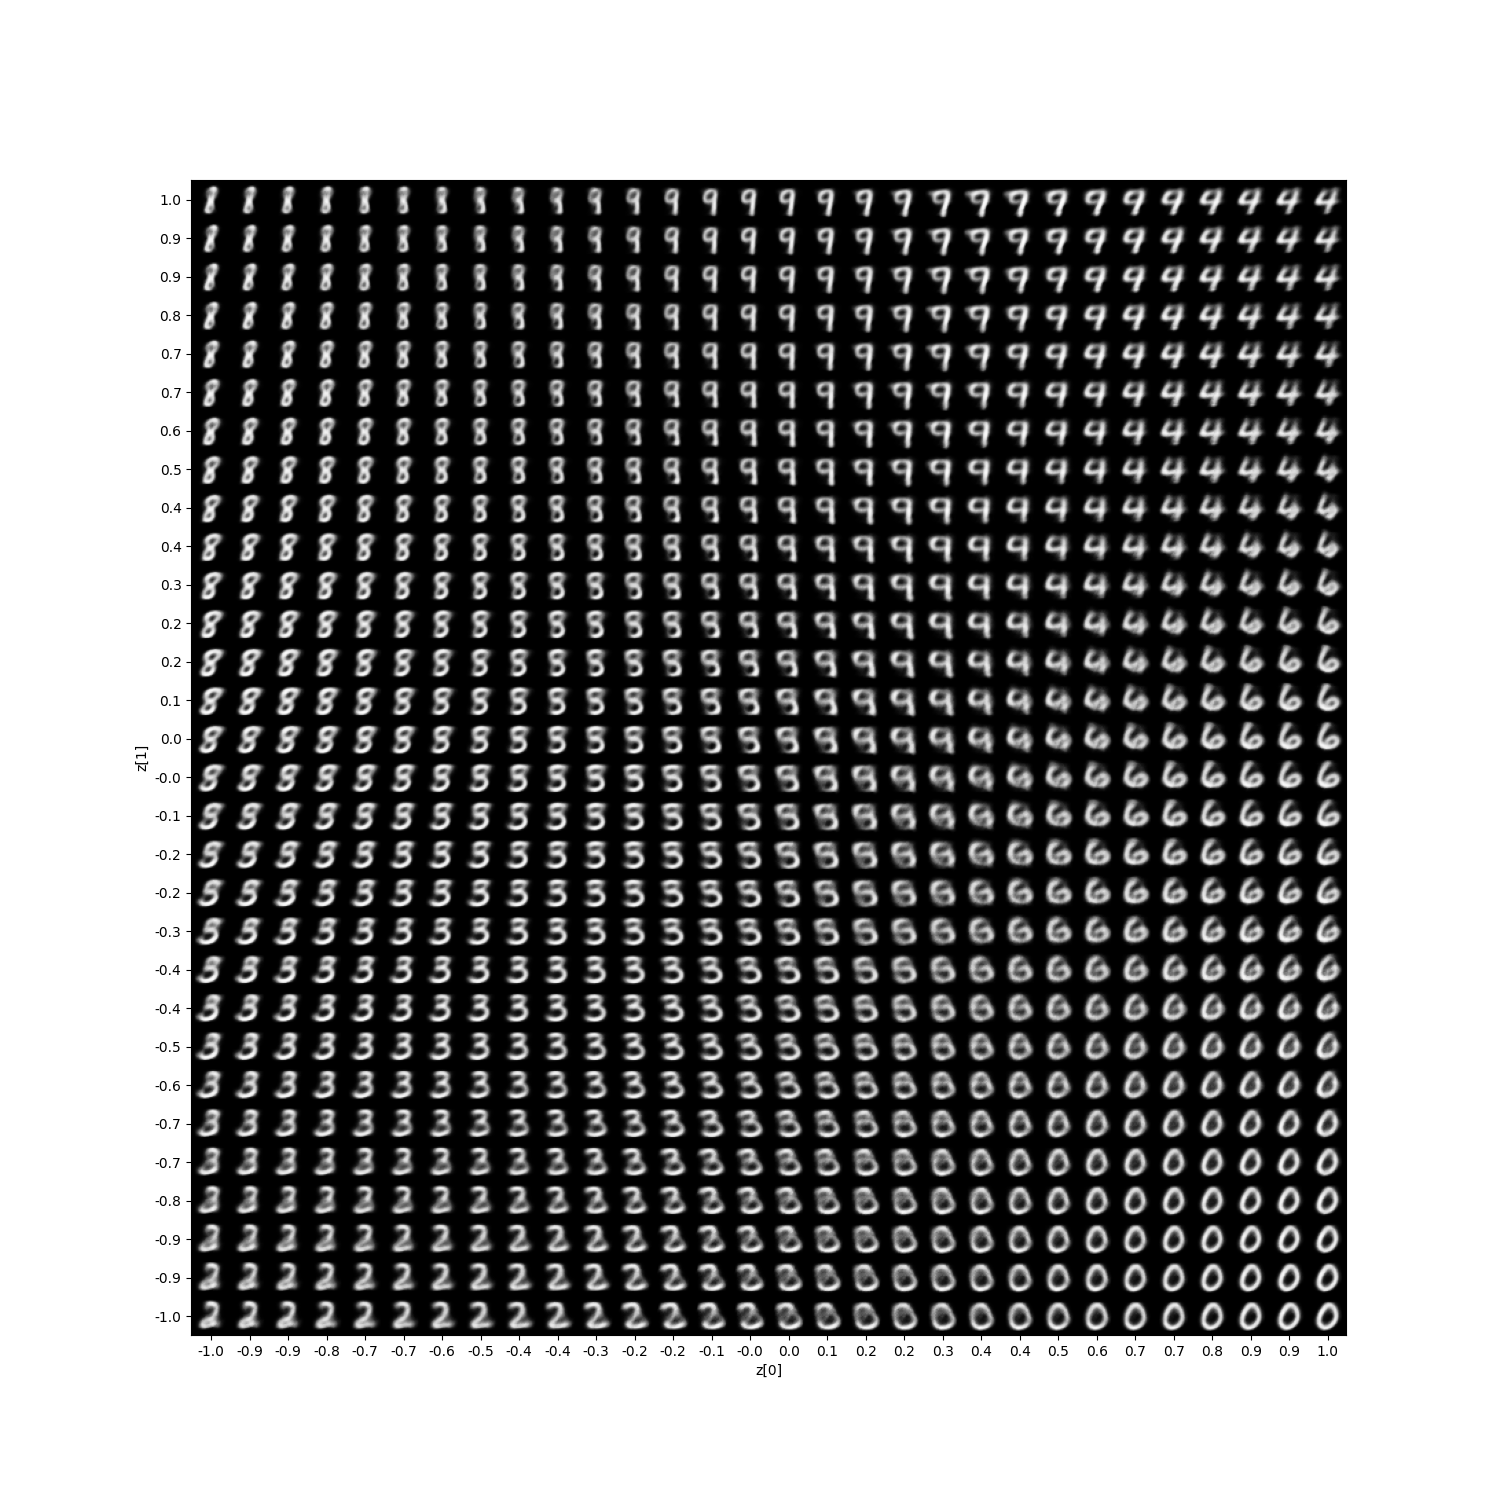
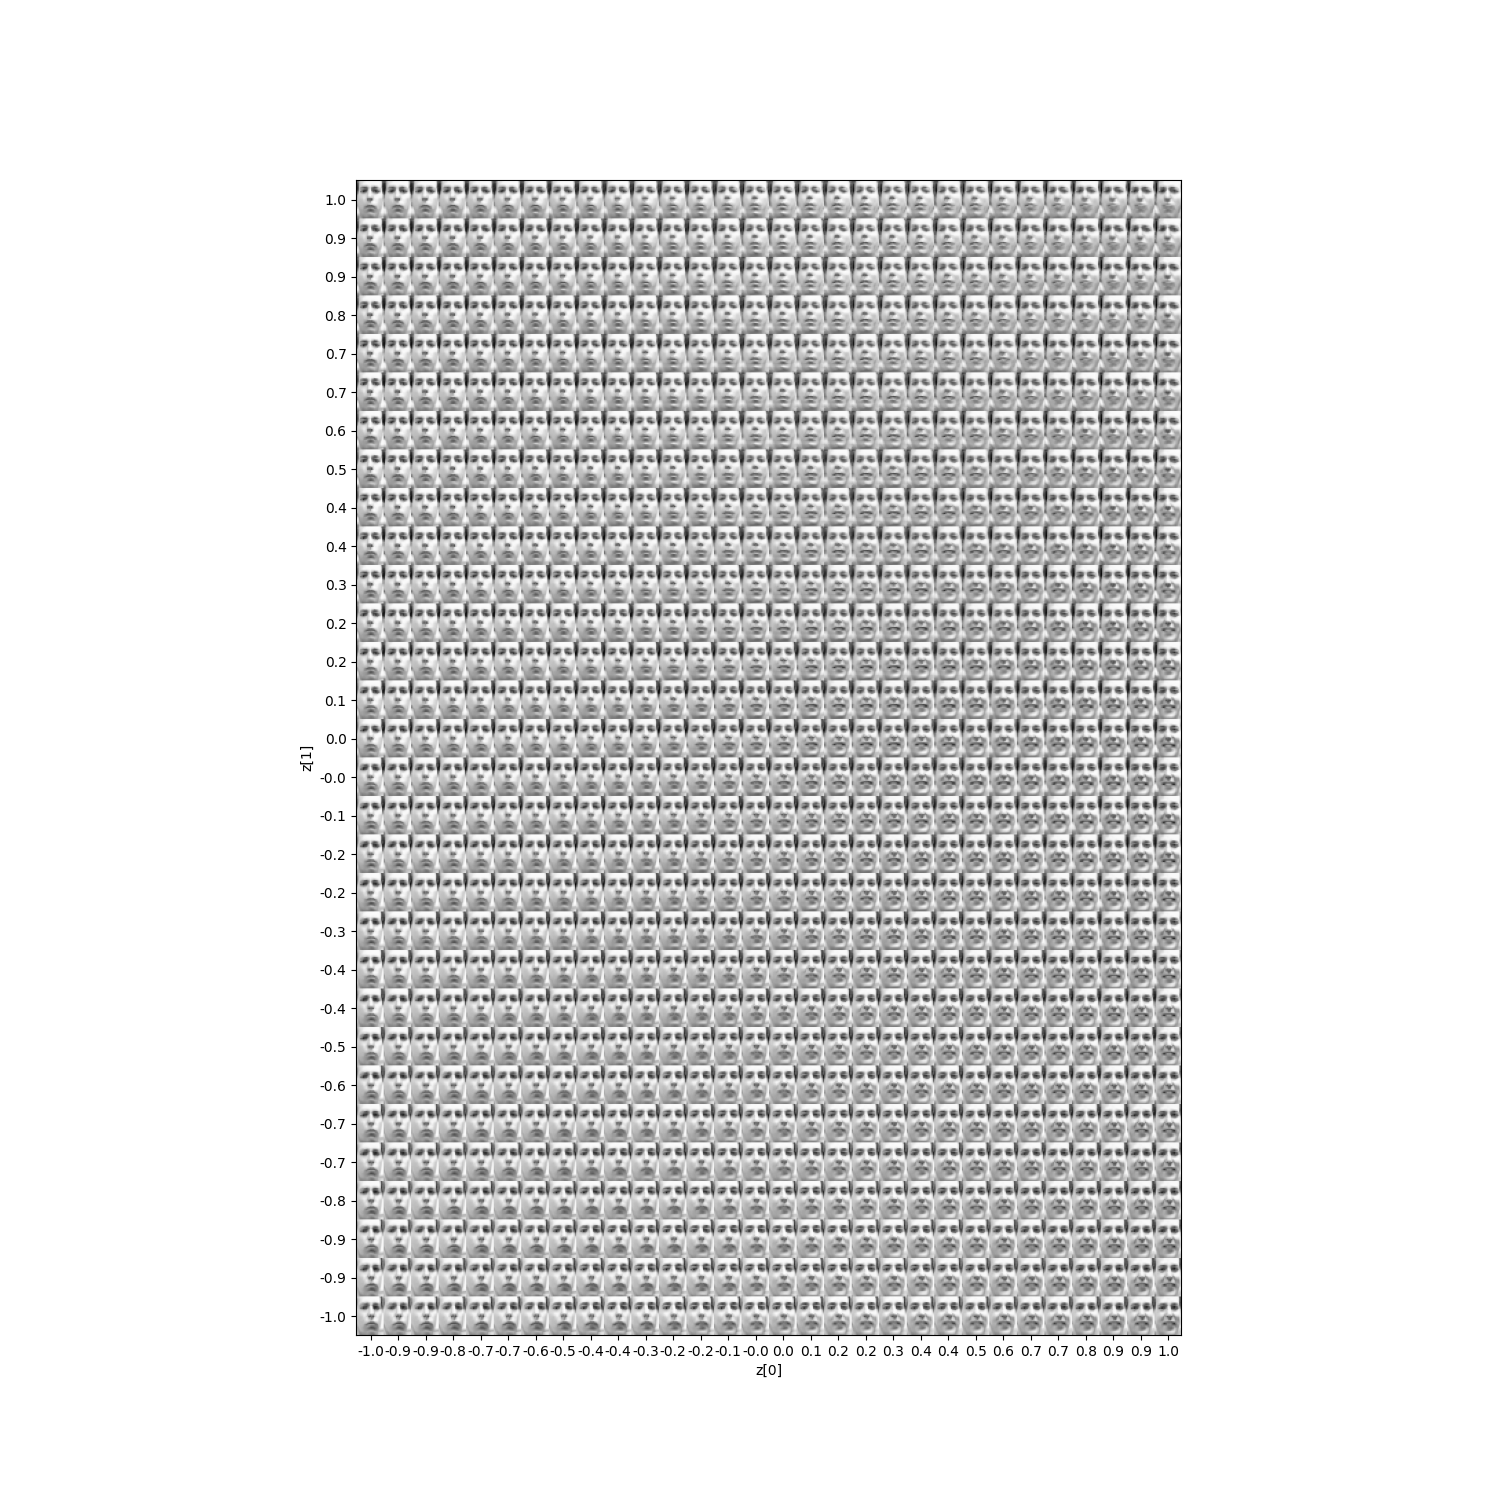
Dirty code but works.

diff --git a/VAE.py b/VAE.py
@@ -18,7 +18,7 @@ class VAE(Model):
     """ Variational Auto-Encoder class via subclassing keras.Model.
     """
 
-    def __init__(self, input_dim, encoder_hidden_dim, latent_dim, decoder_hidden_dim, name):
+    def __init__(self, input_dim, encoder_hidden_dim, latent_dim, decoder_hidden_dim, decoder_type, name):
         """ Init function of the VAE class.
 
         Parameters
@@ -36,28 +36,50 @@ class VAE(Model):
         decoder_hidden_dim : int
              The number of nodes in the hidden layer of the decoder.
 
+        decoder_type : str
+            Either bern for Bernoulli decoder -> negative log likelihood is binary cross entropy
+            or gauss for Gaussian decoder -> negative log-likelihood is - sum ( log N(mu, exp(log_var)) )
+
         name : str
             The name of the model.
         """
         # Inherit everything from keras.Model.
         super(VAE, self).__init__(name=name)
+        # Decoder type.
+        if decoder_type in ["bern", "gauss"]:
+            self.decoder_type = decoder_type
+        else:
+            raise Exception(f"Invalid decoder_type: {decoder_type}")
+
         # Xavier initialization (https://www.deeplearning.ai/ai-notes/initialization/, see towards the end of the
         # article)
-        self.initializer = tf.initializers.VarianceScaling(scale=2.0)
+        #self.initializer = tf.initializers.VarianceScaling(scale=2.0)
+        self.initializer = tf.initializers.RandomNormal(mean=0.0, stddev=0.01, seed=None)
         # Create the VAE layers.
         self.encoder_hidden = Dense(
-            units=encoder_hidden_dim, activation="relu", kernel_initializer=self.initializer)
+            units=encoder_hidden_dim, activation="tanh", kernel_initializer=self.initializer)
         self.mu = Dense(
             latent_dim, kernel_initializer=self.initializer, name="mu")
         self.log_var = Dense(
             latent_dim, kernel_initializer=self.initializer, name="log_var")
         self.z = Lambda(self.get_latent, output_shape=(latent_dim,), name="z")
         self.decoder_hidden = Dense(
-            decoder_hidden_dim, activation='relu', kernel_initializer=self.initializer)
+            decoder_hidden_dim, activation='tanh', kernel_initializer=self.initializer)
         # The decoder is a Bernoulli MLP. Has binary cross-entropy loss, see later.
-        self.reconstruction = \
-            Dense(input_dim, activation='sigmoid',
-                  kernel_initializer=self.initializer, name="reconstruction")
+        if self.decoder_type == "bern":
+            self.reconstruction = \
+                Dense(input_dim, activation='sigmoid',
+                      kernel_initializer=self.initializer, name="reconstruction")
+        else:
+            self.reconstruction_mu = \
+                Dense(input_dim, activation='sigmoid',
+                      kernel_initializer=self.initializer, name="reconstruction_mu")
+            log_var_clip_val = 5
+            self.reconstruction_log_var = \
+                Dense(input_dim, activation=lambda v: kb.clip(v, -log_var_clip_val, log_var_clip_val),
+                      kernel_initializer=self.initializer, name="reconstruction_log_var")
+            #self.reconstruction_log_var = \
+            #    Dense(input_dim, kernel_initializer=self.initializer, name="reconstruction_log_var")
 
     def get_latent(self, gauss_params):
         """ Function to re-parametrize mu,log_var by sampling from Gaussian
@@ -78,11 +100,13 @@ class VAE(Model):
         """
         # Parameters of q(z|x) (equation 9)
         mu, log_var = gauss_params
+
         # Sample epsilon and calculate latent vector Z (equation 10)
         eps = kb.random_normal(shape=(kb.shape(mu)[0], kb.shape(mu)[1]))
         # standard deviation = sqrt(sigma) ; using the exponential assures that the result is positive
         std = kb.exp(0.5*log_var)
         z = mu + std * eps
+
         return z
 
     def encode(self, inputs):
@@ -100,8 +124,14 @@ class VAE(Model):
         # decoder_hidden shape=(batch_size, decoder_hidden_dim)
         decoder_hidden = self.decoder_hidden(z)
         # decoder_hidden shape=(batch_size, input_dim)
-        reconstruction = self.reconstruction(decoder_hidden)
-        return reconstruction
+        if self.decoder_type == "bern":
+            reconstruction = self.reconstruction(decoder_hidden)
+            return reconstruction
+        else:
+            reconstruction_mu = self.reconstruction_mu(decoder_hidden)
+            reconstruction_log_var = self.reconstruction_log_var(decoder_hidden)
+            return reconstruction_mu, reconstruction_log_var
+
 
     def call(self, inputs):
         """ Overrides the call function of keras.Model via subclassing. Gets called at each optimization step.
@@ -119,25 +149,42 @@ class VAE(Model):
         """
         # Attach model parts together (i.e.: create computation graph).
         mu, log_var, z = self.encode(inputs)
-        reconstruction = self.decode(z)
+        if self.decoder_type == "bern":
+            reconstruction = self.decode(z)
+        else:
+            reconstruction_mu, reconstruction_log_var = self.decode(z)
 
         # Create the loss tensors.
         # Computes negative! KL Divergence Loss (First part of equation 24, but negative here to have -KLD)
         negative_kl_loss = kb.mean(
             0.5 * kb.sum(-log_var + kb.exp(log_var) + kb.square(mu) - 1, axis=1))
-        # Computes the Binary Cross-Entropy Loss that is equivalent to the negative binary loglikelihood
-        # (comes from the sigmoid activation function of the Bernoulli MLP layer in the decoder)
-        binary_cross_entropy_loss = kb.mean(-kb.sum(inputs * kb.log(
-            reconstruction + EPSILON) + (1 - inputs) * kb.log(1 - reconstruction + EPSILON), axis=1))
+        if self.decoder_type == "bern":
+            # Computes the Binary Cross-Entropy Loss that is equivalent to the negative binary loglikelihood
+            # (comes from the sigmoid activation function of the Bernoulli MLP layer in the decoder)
+            binary_cross_entropy_loss = \
+                    kb.mean(-kb.sum(inputs * kb.log(reconstruction + EPSILON) +
+                                    (1 - inputs) * kb.log(1 - reconstruction + EPSILON), axis=1))
+            negative_log_likelihood = binary_cross_entropy_loss
+        else:
+            # Compute negative log-likelihood of normal distribution.
+            #negative_mse = kb.mean(-kb.sum(kb.square(inputs - reconstruction_mu), axis=1))
+            x_prec = kb.exp(-reconstruction_log_var)
+            x_diff = inputs - reconstruction_mu
+            x_power = -0.5 * kb.square(x_diff) * x_prec
+            negative_log_likelihood = kb.mean(-kb.sum(-0.5 * (reconstruction_log_var + np.log(2 * np.pi)) + x_power, axis=1))
+            #negative_log_likelihood = negative_mse
+
         # Create the overall VAE loss.
         # ELBO in the paper is ELBO = KLD + Log_likelihood, ELBO in the paper is maximized
         # We minimize the negative ELBO: - ELBO = - KLD - Log_likelihood = - KLD + BCE
-        vae_loss = binary_cross_entropy_loss + negative_kl_loss
+        vae_loss = negative_log_likelihood + negative_kl_loss
 
         self.add_loss(vae_loss)
-
-        # Return the reconstructed observations.
-        return reconstruction
+        if self.decoder_type == "bern":
+            # Return the reconstructed observations.
+            return reconstruction
+        else:
+            return reconstruction_mu
 
 
 def plot_imgs_compare(n_imgs, x, y, x_reconstructed, save_img):
@@ -171,7 +218,8 @@ def plot_imgs_compare(n_imgs, x, y, x_reconstructed, save_img):
     n_imgs_all = x.shape[0]
     idx_imgs = np.random.choice(n_imgs_all, n_imgs)
     x_show = x[idx_imgs]
-    y_show = y[idx_imgs]
+    if y is not None:
+        y_show = y[idx_imgs]
     x_reconstructed_show = x_reconstructed[idx_imgs]
 
     # Create figure.
@@ -187,7 +235,8 @@ def plot_imgs_compare(n_imgs, x, y, x_reconstructed, save_img):
         ax_left.imshow(x_reconstructed_show[n_idx])
         ax_right.imshow(x_show[n_idx])
         ax_left.set_title(f"Reconstructed")
-        ax_right.set_title(f"Label: {y_show[n_idx]}")
+        if y is not None:
+            ax_right.set_title(f"Label: {y_show[n_idx]}")
         ax_left.axis('off')
         ax_right.axis('off')
 
@@ -424,7 +473,7 @@ def visualize_imgs(x, n_imgs=4):
     plt.show()
 
 
-def plot_latent_space(vae, n=30, figsize=15):
+def plot_latent_space(vae, img_height, img_width, decoder_type, n=30, figsize=15):
     """ Plots latent space. Note that it only works for a 2D latent space.
     Source from https://keras.io/examples/generative/vae/.
 
@@ -445,9 +494,9 @@ def plot_latent_space(vae, n=30, figsize=15):
 
     """
     # display a n*n 2D manifold of digits
-    digit_size = 28
+    #digit_size = 28
     scale = 1.0
-    figure = np.zeros((digit_size * n, digit_size * n))
+    figure = np.zeros((img_height * n, img_width * n))
     # linearly spaced coordinates corresponding to the 2D plot
     # of digit classes in the latent space
     grid_x = np.linspace(-scale, scale, n)
@@ -456,21 +505,30 @@ def plot_latent_space(vae, n=30, figsize=15):
     for i, yi in enumerate(grid_y):
         for j, xi in enumerate(grid_x):
             z_sample = np.array([[xi, yi]])
-            x_decoded = vae.decode(z_sample)
-            digit = x_decoded.numpy().reshape(digit_size, digit_size)
+            if decoder_type == "bern":
+                x_decoded = vae.decode(z_sample)
+            else:
+                x_decoded, _ = vae.decode(z_sample)
+            digit = x_decoded.numpy().reshape(img_height, img_width)
             figure[
-                i * digit_size : (i + 1) * digit_size,
-                j * digit_size : (j + 1) * digit_size,
+                i * img_height : (i + 1) * img_height,
+                j * img_width : (j + 1) * img_width,
             ] = digit
 
     plt.figure(figsize=(figsize, figsize))
-    start_range = digit_size // 2
-    end_range = n * digit_size + start_range
-    pixel_range = np.arange(start_range, end_range, digit_size)
-    sample_range_x = np.round(grid_x, 1)
-    sample_range_y = np.round(grid_y, 1)
-    plt.xticks(pixel_range, sample_range_x)
-    plt.yticks(pixel_range, sample_range_y)
+
+    start_range_height = img_height // 2
+    end_range_height = n * img_height + start_range_height
+    pixel_range_height = np.arange(start_range_height, end_range_height, img_height)
+    sample_range_y_height = np.round(grid_y, 1)
+
+    start_range_width = img_width // 2
+    end_range_width = n * img_width + start_range_width
+    pixel_range_width = np.arange(start_range_width, end_range_width, img_width)
+    sample_range_x_width = np.round(grid_x, 1)
+
+    plt.xticks(pixel_range_width, sample_range_x_width)
+    plt.yticks(pixel_range_height, sample_range_y_height)
     plt.xlabel("z[0]")
     plt.ylabel("z[1]")
     plt.imshow(figure, cmap="Greys_r")
@@ -480,7 +538,8 @@ def plot_latent_space(vae, n=30, figsize=15):
 
 if __name__ == "__main__":
     # Load dataset of choice - either mnist or frey.
-    (x_train, y_train), (x_test, y_test) = load_dataset(dataset_name="mnist")
+    dataset_name = "frey"
+    (x_train, y_train), (x_test, y_test) = load_dataset(dataset_name=dataset_name)
     print(f"img shape: height = {x_train.shape[1]}, width = {x_train.shape[2]}")
     print(f"x_train has {x_train.shape[0]} imgs, x_test has {x_test.shape[0]} imgs")
 
@@ -498,23 +557,26 @@ if __name__ == "__main__":
     print(f"x_test_flattened.shape={x_test_flattened.shape}")
 
     # Create the VAE.
-    encoder_hidden_dim = 100
+    encoder_hidden_dim = 200
     latent_dim = 2
-    decoder_hidden_dim = 100
+    decoder_hidden_dim = 200
+    decoder_type = "gauss"
     vae = VAE(input_dim=input_dim, encoder_hidden_dim=encoder_hidden_dim, latent_dim=latent_dim,
-              decoder_hidden_dim=decoder_hidden_dim, name="vae")
+              decoder_hidden_dim=decoder_hidden_dim, decoder_type=decoder_type, name="vae")
     # Plot model if wanted. Something is not okay with this now, leave it commented.
     # plot_model(vae, to_file='vae_viz.png', show_shapes=True)
 
     # Create optimizer.
-    optimizer = tf.keras.optimizers.Adam(learning_rate=1e-4)
+    #optimizer = tf.keras.optimizers.Adam(learning_rate=1e-4)
+    #optimizer = tf.keras.optimizers.Adagrad(learning_rate=1e-2) #-714 for 10k epochs
+    optimizer = tf.keras.optimizers.Adagrad(learning_rate=2e-2)
 
     # Compile model.
     vae.compile(optimizer)
 
     # Fit model.
-    epochs = 200
-    batch_size = 32
+    epochs = 10000
+    batch_size = 100
     history = vae.fit(x_train_flattened, x_train_flattened,
                       epochs=epochs, batch_size=batch_size, shuffle=True,
                       validation_data=(x_test_flattened, x_test_flattened))
@@ -524,7 +586,7 @@ if __name__ == "__main__":
     dataset_name = "mnist"
     x_axis_label = "samples"
     x_axis_scale = "log"
-    ylim = (-200, -100)
+    ylim = (0, 1600)
 
     plot_lowerbound(
         history=history,
@@ -546,8 +608,9 @@ if __name__ == "__main__":
     plot_imgs_compare(n_imgs=10, x=x_train, y=y_train,
                       x_reconstructed=x_train_reconstructed, save_img=True)
 
-    # Plot latent space. Only works for latent_dim=2, i.e.: 2D latent space.
-    plot_latent_space(vae)
+    if latent_dim == 2:
+        # Plot latent space. Only works for latent_dim=2, i.e.: 2D latent space.
+        plot_latent_space(vae, img_height=height, img_width=width, decoder_type=decoder_type)
 
     """
     This part does not work yet.
